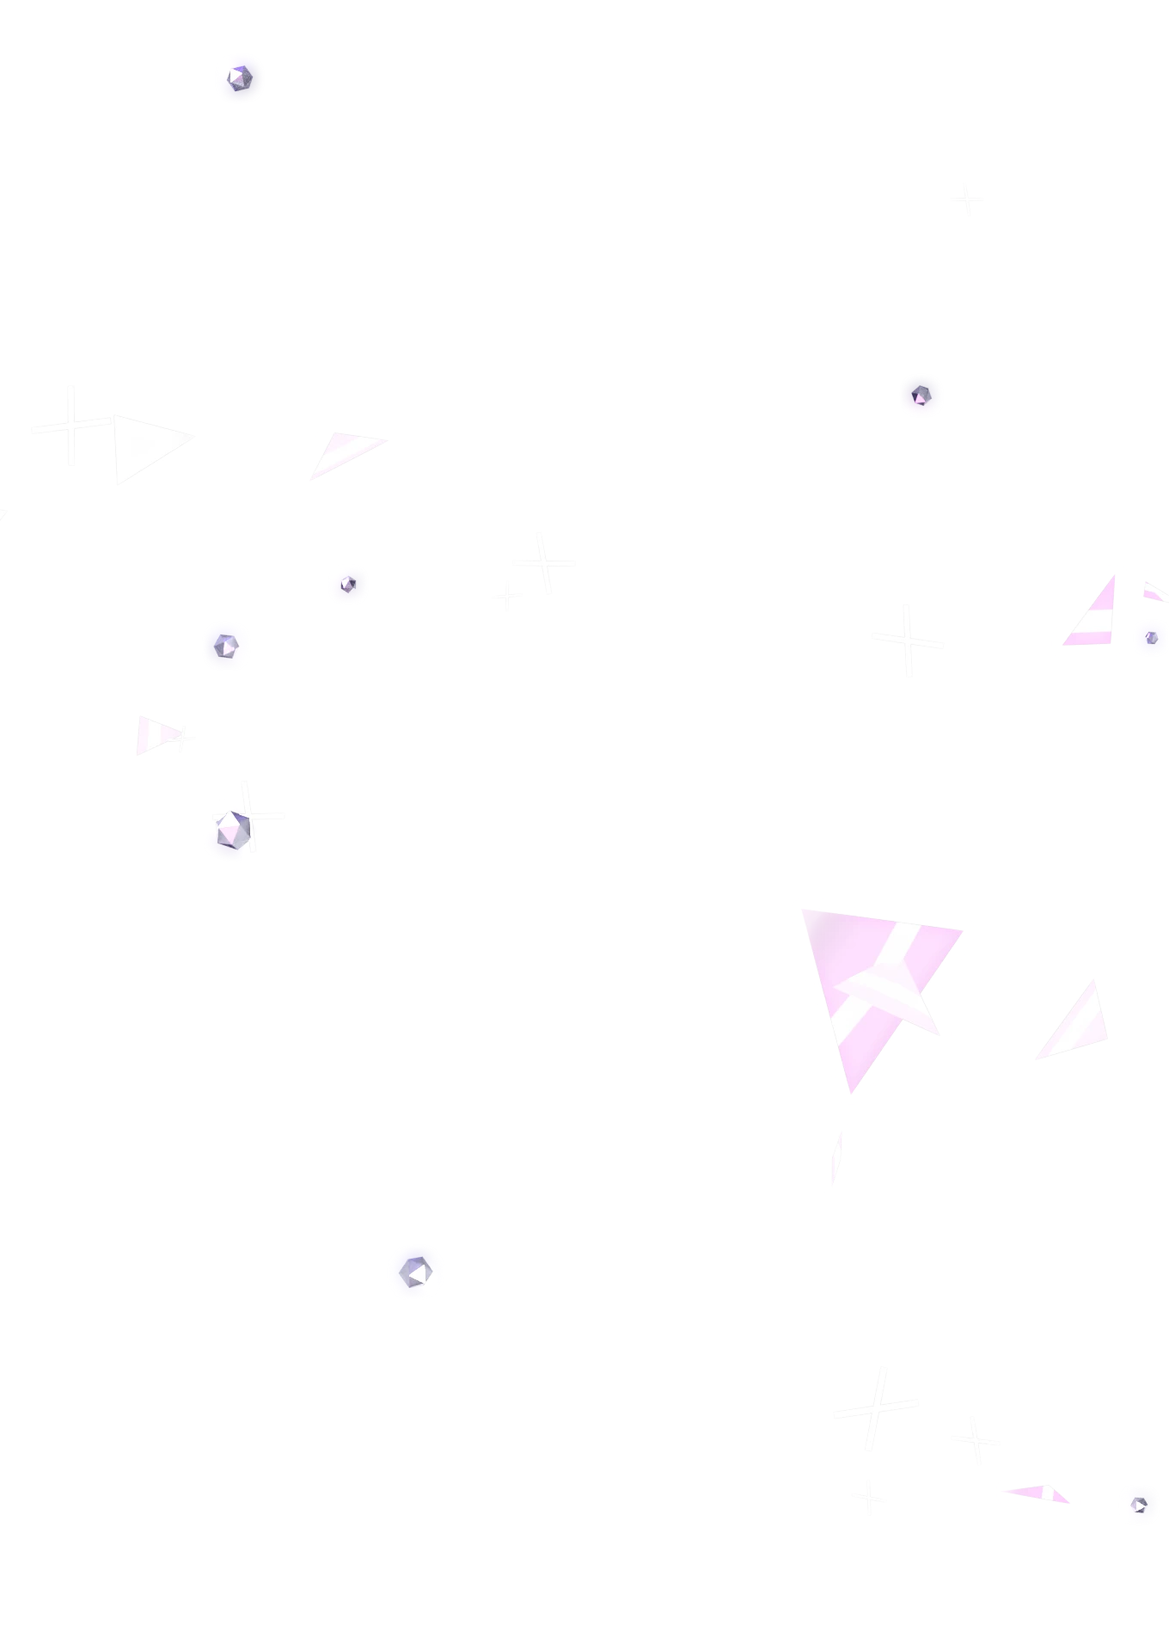
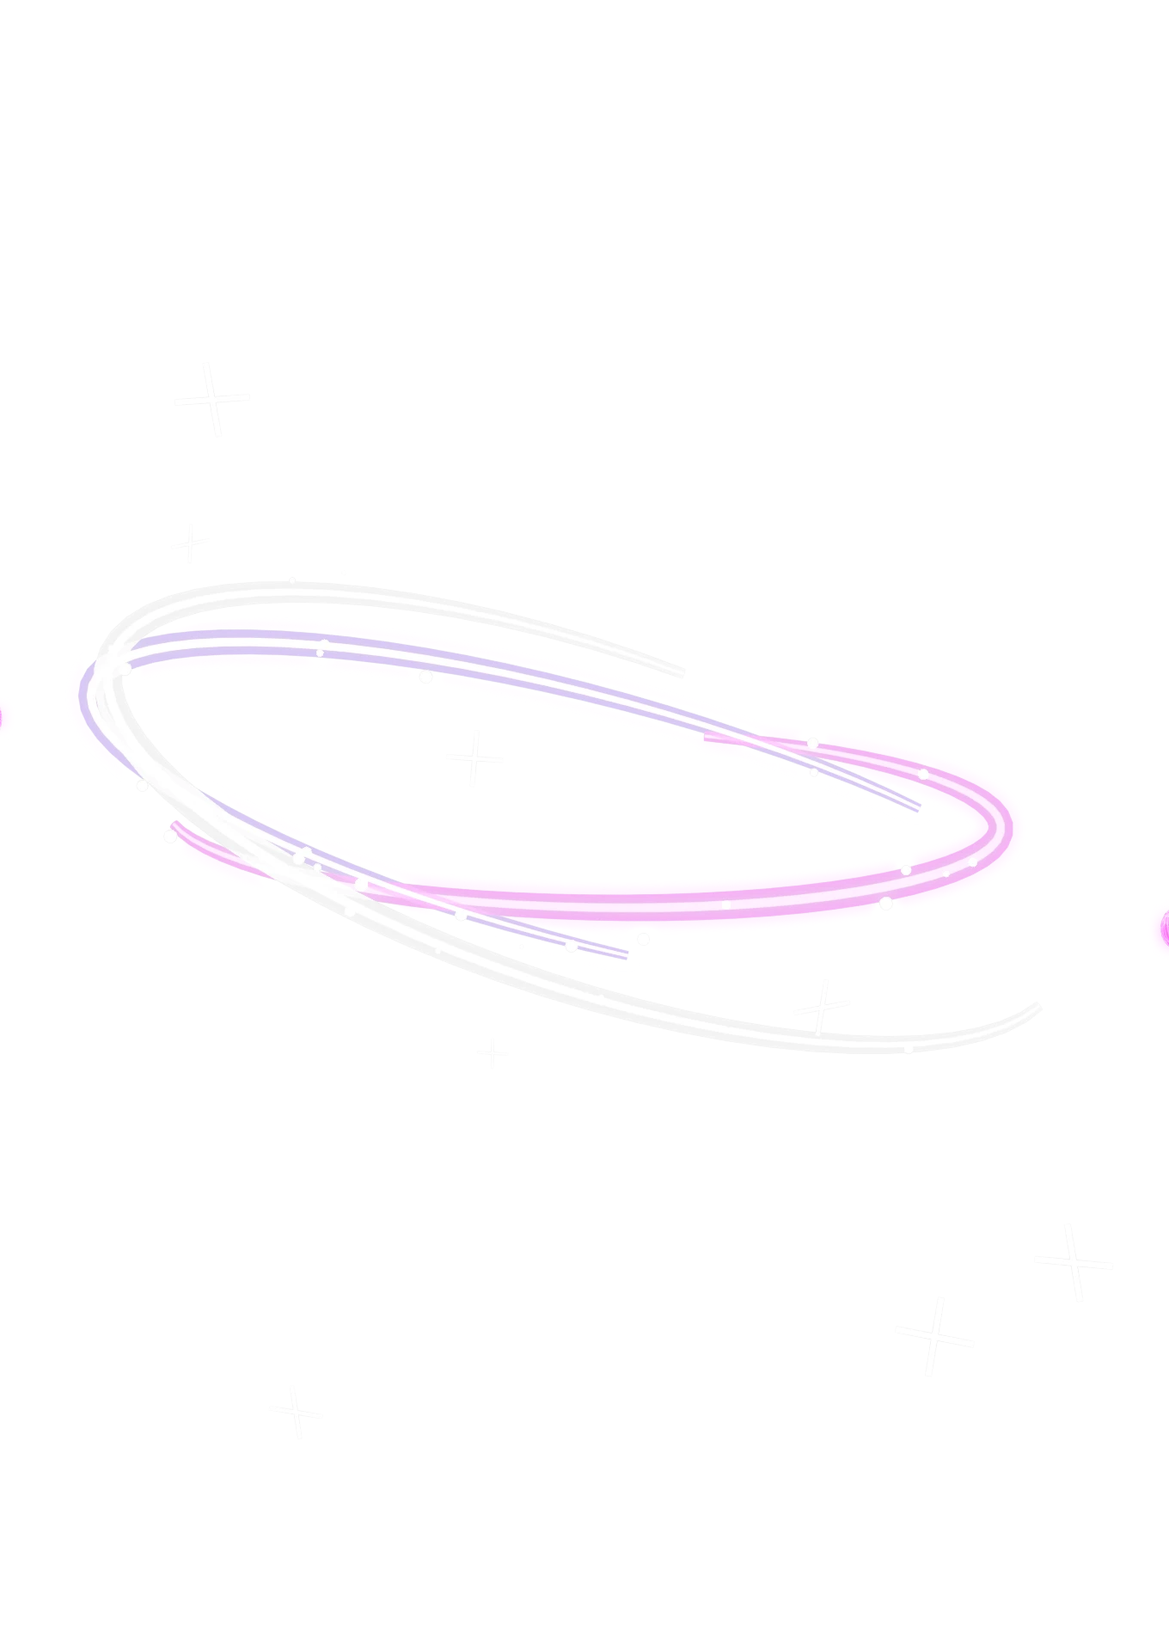
feat(holo): lightning and energy effect styles for the card pipeline
- `--fx lightning` (Zapdos ex): branching bolts as zig-zag random walks
  pulled toward the motion direction, rendered as bevelled poly curves with a
  white-hot core tube and a translucent coloured halo tube, tapering to the
  tip; short arcs crawling around the subject; sparks at the tips and
  drifting along the direction
- `--fx energy` (Mewtwo ex): three glowing orbit rings as open arcs (the far
  side is left out so they read as passing behind the subject), dust riding
  on them and glass orbs
- `--passes photo,fg,fx,depth` renders only the listed passes and keeps the
  rest from the last run, for tuning effects without the full render
- electric card rebuilt with lightning, Bliss card with energy rings

Claude-Session: https://claude.ai/code/session_01X2xAsW2s6XkYPCSyBgQiF6

diff --git a/apps/storybook/stories/media/HoloCard.stories.tsx b/apps/storybook/stories/media/HoloCard.stories.tsx
@@ -232,7 +232,9 @@ export const BlenderCutOut: Story = {
 /**
  * Lettering as the subject: the Pure Bliss chrome logo (an alpha PNG from the
  * portfolio's Storyblok space) wider than the card over a blurred Y2K collage,
- * Mew-style shards along the lettering's tilt, swirl foil and rainbow stars.
+ * with `--fx energy`: glowing orbit rings around the lettering (open at the
+ * back so they read as passing behind it), dust and orbs, like Mewtwo ex.
+ * Swirl foil and rainbow stars.
  */
 export const BlenderLettering: Story = {
   name: "Blender pipeline (chrome lettering)",
@@ -242,7 +244,7 @@ export const BlenderLettering: Story = {
     foregroundFrame: "overhang",
     effectsSrc: "/images/holo/bliss-hello/bliss-hello-fx.webp",
     depthSrc: "/images/holo/bliss-hello/bliss-hello-depth.webp",
-    alt: "Pure Bliss in glossy purple chrome lettering running past the card edges over a blurred pink collage with shards",
+    alt: "Pure Bliss in glossy purple chrome lettering running past the card edges, pink and violet orbit rings circling it over a blurred collage",
     variant: "card",
     aspectRatio: "5/7",
     intensity: 0.8,
@@ -261,12 +263,13 @@ export const BlenderLettering: Story = {
 };
 
 /**
- * The yellow ex look (Zapdos, Mewtwo Tera): `--palette electric --bg-tint
+ * The yellow ex look (Zapdos ex): `--palette electric --fx lightning --bg-tint
  * "#ffcc1a"`. The subject is a rack of yellow longsleeves cut out of the
  * Outlet Store photo with `tools/blender/cutout.py`, which also estimates its
  * depth, so the front sweater sits nearer than the trousers behind it. The
- * backdrop is the same photo blurred and tinted to one colour; violet-white
- * beams and crystals fly along one direction.
+ * backdrop is the same photo blurred and tinted to one colour; branching
+ * bolts with violet halos shoot out of the rack and past the frame, short arcs
+ * crawl around it.
  */
 export const BlenderElectric: Story = {
   name: "Blender pipeline (electric, cut-out with depth)",
@@ -276,7 +279,7 @@ export const BlenderElectric: Story = {
     foregroundFrame: "overhang",
     effectsSrc: "/images/holo/outlet-electric/outlet-electric-fx.webp",
     depthSrc: "/images/holo/outlet-electric/outlet-electric-depth.webp",
-    alt: "A rack of yellow longsleeves bursting out of a yellow card, white and violet lightning beams flying past the edge",
+    alt: "A rack of yellow longsleeves bursting out of a yellow card, white-violet lightning bolts branching past the edge",
     variant: "card",
     aspectRatio: "5/7",
     intensity: 0.75,

diff --git a/tools/blender/render_card.py b/tools/blender/render_card.py
@@ -123,6 +123,7 @@ def parse_args(argv: list[str]) -> argparse.Namespace:
     parser.add_argument("--image-rotate", type=float, default=0.0, help="rotation of the cut-out in degrees, counter-clockwise")
     parser.add_argument("--image-depth", help="greyscale depth map for --image (white = far, same size); gives the flat cut-out per-pixel depth")
     parser.add_argument("--image-depth-range", type=float, default=0.3, help="how much of the near–far range the --image-depth map spans")
+    parser.add_argument("--passes", default="photo,fg,fx,depth", help="comma list of passes to render; the others keep the files from the last run (e.g. `fx` while tuning effects)")
     parser.add_argument("--subject-overflow", action="store_true", help="render the cut-out on the full overhang frame so it can break the card edge")
     parser.add_argument("--bg-image", help="photo for the backdrop (already blurred/darkened by the wrapper) instead of the procedural gradient")
     parser.add_argument("--fx-angle", type=float, help="direction the effects shoot along, in degrees (default: random per seed)")
@@ -139,9 +140,9 @@ def parse_args(argv: list[str]) -> argparse.Namespace:
     parser.add_argument("--sparkles", type=int, default=10)
     parser.add_argument(
         "--fx",
-        choices=("shards", "burst"),
+        choices=("shards", "burst", "lightning", "energy"),
         default="shards",
-        help="shards: small emissive triangles (Mew); burst: big flat wedges, glass crystals and beams from the centre (Scherox)",
+        help="shards: small emissive triangles (Mew); burst: big flat wedges, glass crystals and beams from the centre (Scherox); lightning: branching bolts, arcs and sparks (Zapdos); energy: glowing orbit rings, orbs and dust (Mewtwo)",
     )
     return parser.parse_args(argv)
 
@@ -270,6 +271,22 @@ def fade_emission_material(name: str, color: str, strength: float, axis: str, ex
     links.new(transparent.outputs["BSDF"], mix.inputs[1])
     links.new(emission.outputs["Emission"], mix.inputs[2])
     links.new(mix.outputs["Shader"], output.inputs["Surface"])
+    return material
+
+
+def glow_material(name: str, color: str, strength: float, alpha: float) -> bpy.types.Material:
+    """Translucent emission: the soft halo around a bolt or ring; the bloom pass widens it further."""
+    material, tree = new_material(name)
+    emission = tree.nodes.new("ShaderNodeEmission")
+    emission.inputs["Color"].default_value = hex_to_rgb(color)
+    emission.inputs["Strength"].default_value = strength
+    transparent = tree.nodes.new("ShaderNodeBsdfTransparent")
+    mix = tree.nodes.new("ShaderNodeMixShader")
+    mix.inputs["Fac"].default_value = alpha
+    output = tree.nodes.new("ShaderNodeOutputMaterial")
+    tree.links.new(transparent.outputs["BSDF"], mix.inputs[1])
+    tree.links.new(emission.outputs["Emission"], mix.inputs[2])
+    tree.links.new(mix.outputs["Shader"], output.inputs["Surface"])
     return material
 
 
@@ -719,6 +736,161 @@ def build_burst(args: argparse.Namespace, palette: dict, rng: random.Random, fx:
         link_to(beam, fx)
 
 
+def tube_from_points(name: str, points: list[tuple[float, float, float]], radii: list[float], depth: float, material: bpy.types.Material, fx: bpy.types.Collection, cyclic: bool = False) -> bpy.types.Object:
+    """A poly curve rendered as a bevelled tube; per-point radius tapers it."""
+    curve = bpy.data.curves.new(name, type="CURVE")
+    curve.dimensions = "3D"
+    curve.bevel_depth = depth
+    curve.bevel_resolution = 4
+    curve.use_fill_caps = True
+    spline = curve.splines.new("POLY")
+    spline.points.add(len(points) - 1)
+    for point, (x, y, z), radius in zip(spline.points, points, radii):
+        point.co = (x, y, z, 1.0)
+        point.radius = radius
+    spline.use_cyclic_u = cyclic
+    obj = bpy.data.objects.new(name, curve)
+    curve.materials.append(material)
+    link_to(obj, fx)
+    return obj
+
+
+def bolt_points(rng: random.Random, start: tuple[float, float], heading: float, length: float, z: float, jitter: float = 0.7) -> list[tuple[float, float, float]]:
+    """Zig-zag around a slowly drifting heading: the jagged line of a lightning bolt."""
+    points = [(start[0], start[1], z)]
+    x, y = start
+    travelled = 0.0
+    side = rng.choice((-1.0, 1.0))
+    while travelled < length:
+        step = rng.uniform(0.012, 0.04)
+        if rng.random() < 0.75:
+            side = -side
+        heading += rng.uniform(-0.12, 0.12)
+        angle = heading + side * rng.uniform(0.2, jitter)
+        x += math.cos(angle) * step
+        y += math.sin(angle) * step
+        travelled += step
+        points.append((x, y, z + rng.uniform(-0.005, 0.005)))
+    return points
+
+
+def build_bolt(name: str, rng: random.Random, points: list[tuple[float, float, float]], width: float, core: bpy.types.Material, halo: bpy.types.Material, fx: bpy.types.Collection) -> None:
+    """White-hot core plus a wider translucent halo along the same path, tapering to the tip."""
+    count = len(points)
+    radii = [max(0.15, 1.0 - index / max(count - 1, 1)) for index in range(count)]
+    tube_from_points(f"{name}.core", points, radii, width, core, fx)
+    tube_from_points(f"{name}.halo", points, radii, width * 2.6, halo, fx)
+
+
+def build_lightning(args: argparse.Namespace, palette: dict, rng: random.Random, fx: bpy.types.Collection) -> None:
+    """Zapdos style: branching bolts shooting out of the subject, short arcs crawling around it, sparks at the tips."""
+    frame_w, frame_h = frame_size_units(args)
+    reach = math.hypot(frame_w, frame_h) / 2.0
+    direction = fx_direction(args, rng)
+    spread = math.radians(args.fx_spread)
+    colors = [color for color in palette.get("beams", palette["shards"]) if color.lower() != "#ffffff"] or palette["shards"]
+    core = emission_material("HoloBoltCore", "#ffffff", 14.0)
+    # the halo carries the colour (violet for Zapdos); the core stays white-hot
+    halos = [glow_material(f"HoloBoltHalo{i}", color, 3.0, 0.5) for i, color in enumerate(colors)]
+    spark_material = emission_material("HoloSpark", palette["sparkle"], 16.0)
+
+    bolt_count = max(args.shards // 4, 4)
+    for index in range(bolt_count):
+        # main bolts leave the subject along the motion direction, a couple go the other way
+        heading = direction + rng.uniform(-spread, spread) + (math.pi if index % 3 == 2 else 0.0)
+        start_radius = rng.uniform(0.12, 0.3)
+        start = (math.cos(heading) * start_radius, math.sin(heading) * start_radius)
+        z = rng.uniform(0.6, 1.1)
+        points = bolt_points(rng, start, heading, rng.uniform(0.45, 0.95) * reach, z)
+        halo = halos[index % len(halos)]
+        width = rng.uniform(0.002, 0.0034)
+        build_bolt(f"HoloBolt.{index:03d}", rng, points, width, core, halo, fx)
+        # branches split off part-way and wander off at an angle
+        for branch in range(rng.randint(1, 3)):
+            at = rng.randint(2, max(2, len(points) - 3))
+            bx, by, bz = points[at]
+            side = rng.choice((-1.0, 1.0))
+            branch_points = bolt_points(rng, (bx, by), heading + side * rng.uniform(0.5, 1.1), rng.uniform(0.15, 0.4) * reach, bz, jitter=0.9)
+            build_bolt(f"HoloBolt.{index:03d}.{branch}", rng, branch_points, width * 0.6, core, halo, fx)
+        # a spark where the bolt ends
+        tx, ty, tz = points[-1]
+        bpy.ops.mesh.primitive_ico_sphere_add(subdivisions=1, radius=rng.uniform(0.004, 0.008), location=(tx, ty, tz))
+        spark = bpy.context.active_object
+        spark.name = f"HoloSpark.{index:03d}"
+        spark.data.materials.append(spark_material)
+        link_to(spark, fx)
+
+    # short arcs crawl around the subject's silhouette like static
+    for index in range(max(args.shards // 3, 5)):
+        angle = rng.uniform(0.0, 2.0 * math.pi)
+        radius = rng.uniform(0.28, 0.46)
+        start = (math.cos(angle) * radius, math.sin(angle) * radius)
+        heading = angle + math.pi / 2.0 * rng.choice((-1.0, 1.0))
+        points = bolt_points(rng, start, heading, rng.uniform(0.08, 0.2), rng.uniform(0.5, 1.0), jitter=0.9)
+        build_bolt(f"HoloArc.{index:03d}", rng, points, rng.uniform(0.0008, 0.0016), core, rng.choice(halos), fx)
+
+    # loose sparks drifting along the direction
+    for index in range(args.shards):
+        x, y, _ = along_direction(rng, direction, spread * 2.0, reach, near=0.2, far=0.95, back_chance=0.4)
+        bpy.ops.mesh.primitive_ico_sphere_add(subdivisions=1, radius=rng.uniform(0.002, 0.005), location=(x, y, rng.uniform(0.4, 1.1)))
+        spark = bpy.context.active_object
+        spark.name = f"HoloDust.{index:03d}"
+        spark.data.materials.append(spark_material)
+        link_to(spark, fx)
+
+
+def build_energy(args: argparse.Namespace, palette: dict, rng: random.Random, fx: bpy.types.Collection) -> None:
+    """Mewtwo style: glowing orbit rings around the subject (open at the back so they read as passing behind it), orbs and dust."""
+    frame_w, frame_h = frame_size_units(args)
+    reach = math.hypot(frame_w, frame_h) / 2.0
+    direction = fx_direction(args, rng)
+    colors = palette.get("beams", palette["shards"])
+    cores = [emission_material(f"HoloRingCore{i}", color, 9.0) for i, color in enumerate(colors)]
+    halos = [glow_material(f"HoloRingHalo{i}", color, 2.5, 0.5) for i, color in enumerate(colors)]
+    orb_material = glass_material("HoloOrb", palette.get("crystal", colors[0]))
+    dust_material = emission_material("HoloDust", palette["sparkle"], 12.0)
+
+    ring_count = 3
+    for index in range(ring_count):
+        # an ellipse in the XY plane: a tilted circle seen from the front, rotated to the motion direction
+        rx = rng.uniform(0.42, 0.62)
+        ry = rx * rng.uniform(0.18, 0.4)
+        tilt = direction + rng.uniform(-0.5, 0.5)
+        z = rng.uniform(0.5, 1.0)
+        # open arc: the far side would pass behind the subject, so it is left out
+        gap = rng.uniform(1.6, 2.4)
+        phase = rng.uniform(0.0, 2.0 * math.pi)
+        steps = 48
+        points = []
+        radii = []
+        for step in range(steps + 1):
+            t = step / steps
+            theta = phase + gap / 2.0 + t * (2.0 * math.pi - gap)
+            ex, ey = math.cos(theta) * rx, math.sin(theta) * ry
+            points.append((ex * math.cos(tilt) - ey * math.sin(tilt), ex * math.sin(tilt) + ey * math.cos(tilt), z + rng.uniform(-0.004, 0.004)))
+            radii.append(0.35 + 0.65 * math.sin(t * math.pi))
+        width = rng.uniform(0.004, 0.007)
+        tube_from_points(f"HoloRing.{index:02d}.core", points, radii, width, cores[index % len(cores)], fx)
+        tube_from_points(f"HoloRing.{index:02d}.halo", points, radii, width * 3.0, halos[index % len(halos)], fx)
+        # dust riding on the ring
+        for grain in range(10):
+            px, py, pz = rng.choice(points)
+            bpy.ops.mesh.primitive_ico_sphere_add(subdivisions=1, radius=rng.uniform(0.003, 0.009), location=(px + rng.uniform(-0.03, 0.03), py + rng.uniform(-0.03, 0.03), pz + 0.05))
+            grain_obj = bpy.context.active_object
+            grain_obj.name = f"HoloRingDust.{index:02d}.{grain:02d}"
+            grain_obj.data.materials.append(dust_material)
+            link_to(grain_obj, fx)
+
+    for index in range(max(args.shards // 3, 5)):
+        x, y, _ = along_direction(rng, direction, math.radians(args.fx_spread) * 2.0, reach, near=0.35, far=0.95, back_chance=0.5)
+        bpy.ops.mesh.primitive_ico_sphere_add(subdivisions=3, radius=rng.uniform(0.02, 0.06), location=(x, y, rng.uniform(0.4, 1.1)))
+        orb = bpy.context.active_object
+        orb.name = f"HoloOrb.{index:03d}"
+        orb.data.materials.append(orb_material)
+        bpy.ops.object.shade_smooth()
+        link_to(orb, fx)
+
+
 def build_effects(args: argparse.Namespace, palette: dict, rng: random.Random) -> None:
     fx = get_collection("fx")
     clear_collection(fx)
@@ -726,6 +898,14 @@ def build_effects(args: argparse.Namespace, palette: dict, rng: random.Random) -
     sparkle_material = emission_material("HoloSparkle", palette["sparkle"], 9.0)
     if args.fx == "burst":
         build_burst(args, palette, rng, fx)
+        build_sparkles(args, palette, rng, fx, sparkle_material)
+        return
+    if args.fx == "lightning":
+        build_lightning(args, palette, rng, fx)
+        build_sparkles(args, palette, rng, fx, sparkle_material)
+        return
+    if args.fx == "energy":
+        build_energy(args, palette, rng, fx)
         build_sparkles(args, palette, rng, fx, sparkle_material)
         return
     shard_materials = [fade_emission_material(f"HoloShard{i}", color, 4.5, "Y", 0.12) for i, color in enumerate(palette["shards"])]
@@ -962,20 +1142,25 @@ def render_variant(args: argparse.Namespace, out_dir: str, palette_name: str, se
             raise SystemExit(f"missing collection `{name}` (expected `bg`, `subject`, `fx`)")
     near, far = depth_range(camera, ["bg", "subject"])
     base = os.path.join(out_dir, args.name)
+    wanted = {name.strip() for name in args.passes.split(",")}
     passes = (
-        (f"{base}.png", {"bg": True, "subject": True}, False),
-        (f"{base}-fg.png", {"subject": True}, True),
-        (f"{base}-fx.png", {"fx": True}, True),
+        ("photo", f"{base}.png", {"bg": True, "subject": True}, False),
+        ("fg", f"{base}-fg.png", {"subject": True}, True),
+        ("fx", f"{base}-fx.png", {"fx": True}, True),
     )
-    for path, visible, transparent in passes:
+    for key, path, visible, transparent in passes:
+        if key not in wanted:
+            log(f"keep {os.path.basename(path)}")
+            continue
         log(f"render {os.path.basename(path)}")
         render_pass(path, visible, transparent, False)
-    log(f"render {args.name}-depth.png")
-    restore = apply_depth_materials(near, far, ["bg", "subject"])
-    try:
-        render_pass(f"{base}-depth.png", {"bg": True, "subject": True}, False, True)
-    finally:
-        restore()
+    if "depth" in wanted:
+        log(f"render {args.name}-depth.png")
+        restore = apply_depth_materials(near, far, ["bg", "subject"])
+        try:
+            render_pass(f"{base}-depth.png", {"bg": True, "subject": True}, False, True)
+        finally:
+            restore()
     grow = 1.0 + 2.0 * args.overscan
     manifest = {
         "name": args.name,

diff --git a/AGENTS.md b/AGENTS.md
@@ -299,7 +299,7 @@ Trading-card foil (Pokémon-TCG-Pocket style) for a single image, as the `holo_i
 
 ### Holo card assets from Blender
 
-`pnpm holo:render --name x --model x.glb --palette all --publish` → `tools/blender/render_card.py` (bpy, headless, Blender 4.2 – 5.x) renders photo, cut-out, effects and depth from one camera, `render-card.mjs` crops to the card with `sharp`, writes WebPs + manifest and can copy them to `public/images/holo/<variant>/`. `--fx shards` (Mew) or `--fx burst` (Scherox wedges, crystals, beams, radial rays), both directed along `--fx-angle` within `--fx-spread`; palettes incl. `scherox`. The wrapper adds a bloom pass (`--no-glow` to skip). Subject: `--model` (glTF/FBX/OBJ), `--image` (cut-out photo on a plane, alpha also shapes the depth map) or the gem placeholder; `--subject-overflow` renders it uncropped on the overhang frame and bigger than the card (pair with `foregroundFrame: "overhang"`). Backdrop: palette gradient, or `--bg-image` (the wrapper blurs and dims it with `sharp`; `--bg-blur` / `--bg-brightness` / `--bg-tint` for one-colour ex cards). `tools/blender/cutout.py` cuts a subject out of a photo (rembg) and writes a depth map (Depth Anything V2, ONNX) for `--image` / `--image-depth`, which gives the cut-out per-pixel relief in the depth pass. Demo cards use a blurred copy of the cut-out's own photo, not the procedural streaks. Own scenes work with collections `bg` / `subject` / `fx`. Layers are isolated with `hide_render`, depth by swapping materials per pass, no compositor (its API moved in 5.0). Overscan must match `OVERSCAN`. See `tools/blender/README.md`.
+`pnpm holo:render --name x --model x.glb --palette all --publish` → `tools/blender/render_card.py` (bpy, headless, Blender 4.2 – 5.x) renders photo, cut-out, effects and depth from one camera, `render-card.mjs` crops to the card with `sharp`, writes WebPs + manifest and can copy them to `public/images/holo/<variant>/`. `--fx shards` (Mew), `burst` (Scherox wedges, crystals, beams, radial rays), `lightning` (Zapdos: branching bolt tubes with halo, arcs, sparks) or `energy` (Mewtwo: open orbit rings, dust, orbs), all directed along `--fx-angle` within `--fx-spread`; palettes incl. `scherox`. The wrapper adds a bloom pass (`--no-glow` to skip). Subject: `--model` (glTF/FBX/OBJ), `--image` (cut-out photo on a plane, alpha also shapes the depth map) or the gem placeholder; `--subject-overflow` renders it uncropped on the overhang frame and bigger than the card (pair with `foregroundFrame: "overhang"`). Backdrop: palette gradient, or `--bg-image` (the wrapper blurs and dims it with `sharp`; `--bg-blur` / `--bg-brightness` / `--bg-tint` for one-colour ex cards). `tools/blender/cutout.py` cuts a subject out of a photo (rembg) and writes a depth map (Depth Anything V2, ONNX) for `--image` / `--image-depth`, which gives the cut-out per-pixel relief in the depth pass. Demo cards use a blurred copy of the cut-out's own photo, not the procedural streaks. Own scenes work with collections `bg` / `subject` / `fx`. Layers are isolated with `hide_render`, depth by swapping materials per pass, no compositor (its API moved in 5.0). Overscan must match `OVERSCAN`. See `tools/blender/README.md`.
 
 ## Device frames
 

diff --git a/tools/blender/README.md b/tools/blender/README.md
@@ -97,7 +97,15 @@ Palettes: `psychic` (Mew), `fire` (Team Rocket), `steel` (Steelix), `water`,
 Effect styles (`--fx`): `shards` (default) scatters small emissive triangles,
 debris and sparkles like the Mew card; `burst` shoots big flat orange / blue
 wedges, glass crystals and thin beams out of the centre over a backdrop of
-radial rays, like Mega-Scherox. Pair `burst` with the `scherox` palette.
+radial rays, like Mega-Scherox (pair with the `scherox` palette); `lightning`
+grows branching bolts out of the subject (random walks pulled toward the
+motion direction, white-hot core tube plus a translucent halo tube, sparks at
+the tips), short arcs crawling around the silhouette and drifting sparks, like
+Zapdos ex (pair with `electric`); `energy` draws three glowing orbit rings as
+open arcs (the far side is left out, so they read as passing behind the
+subject), dust riding on them and glass orbs, like Mewtwo ex (pair with
+`psychic`). Bolts and rings are bevelled poly curves with per-point radius, so
+they taper; the bloom pass in the wrapper widens the halos.
 
 ## Your own scene
 
